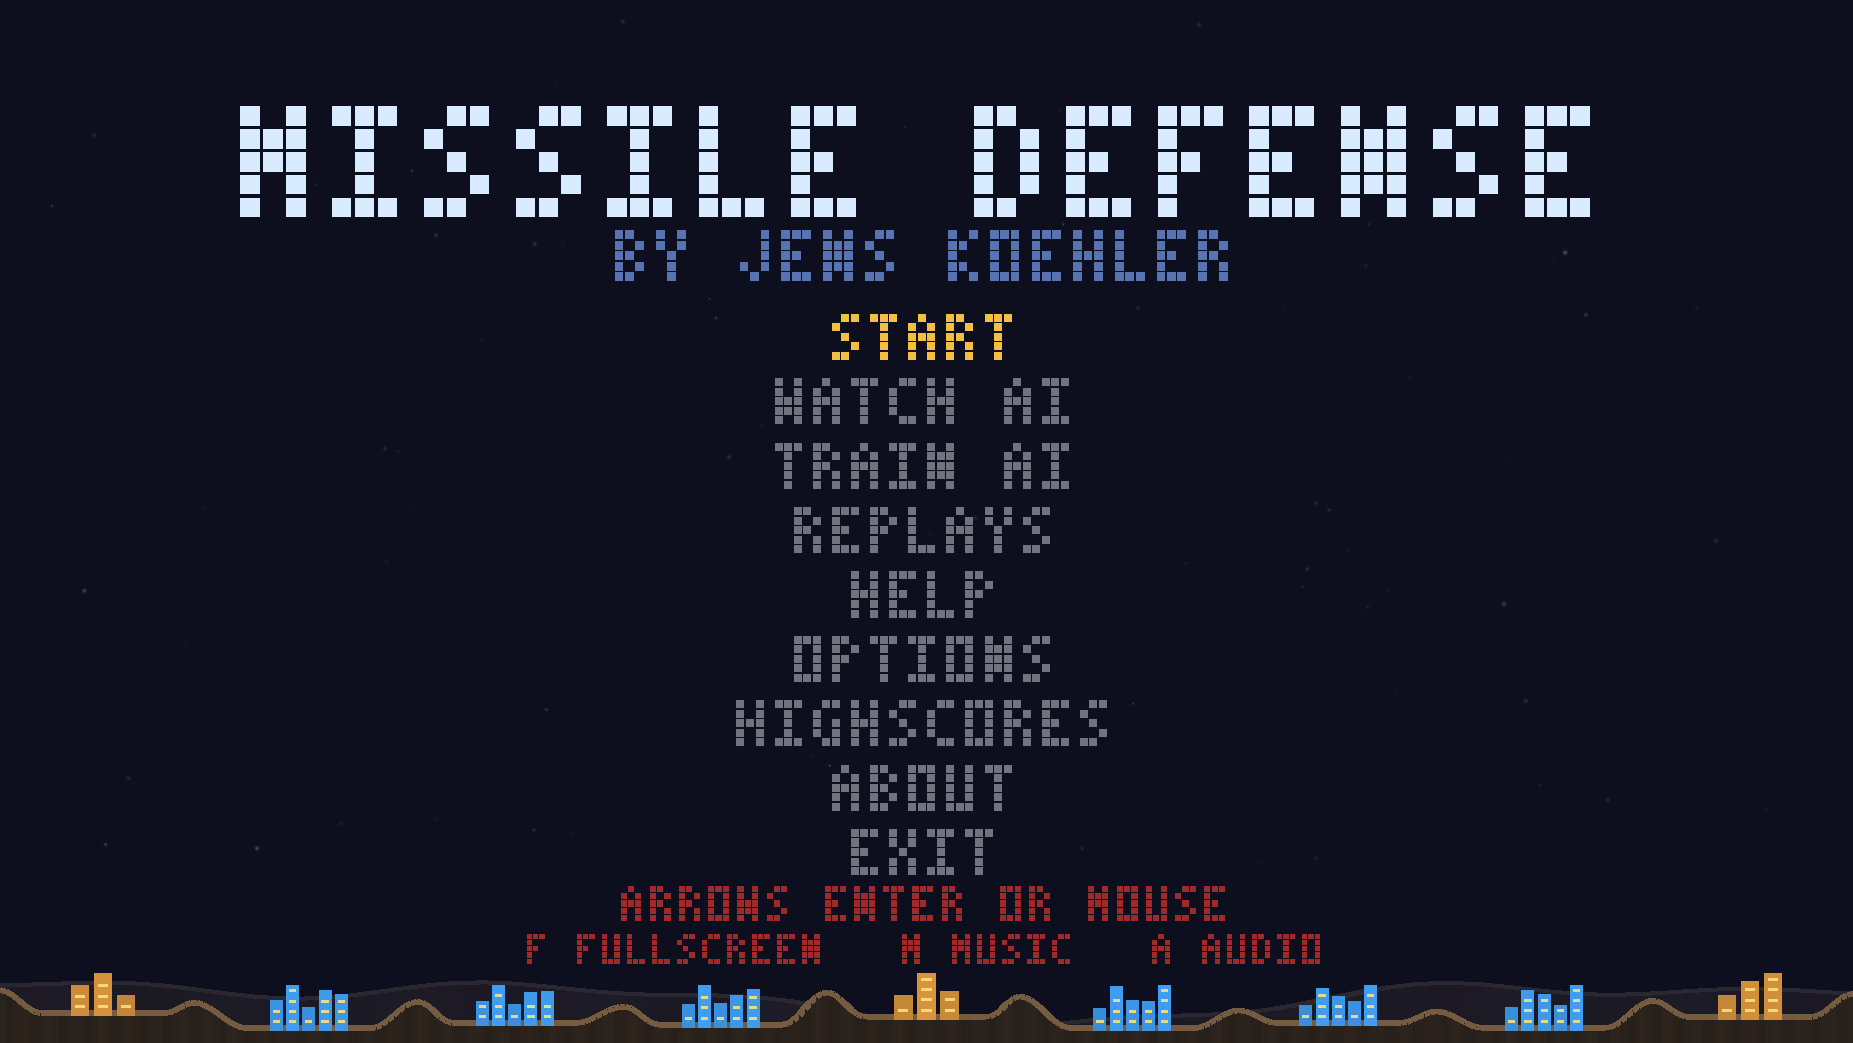
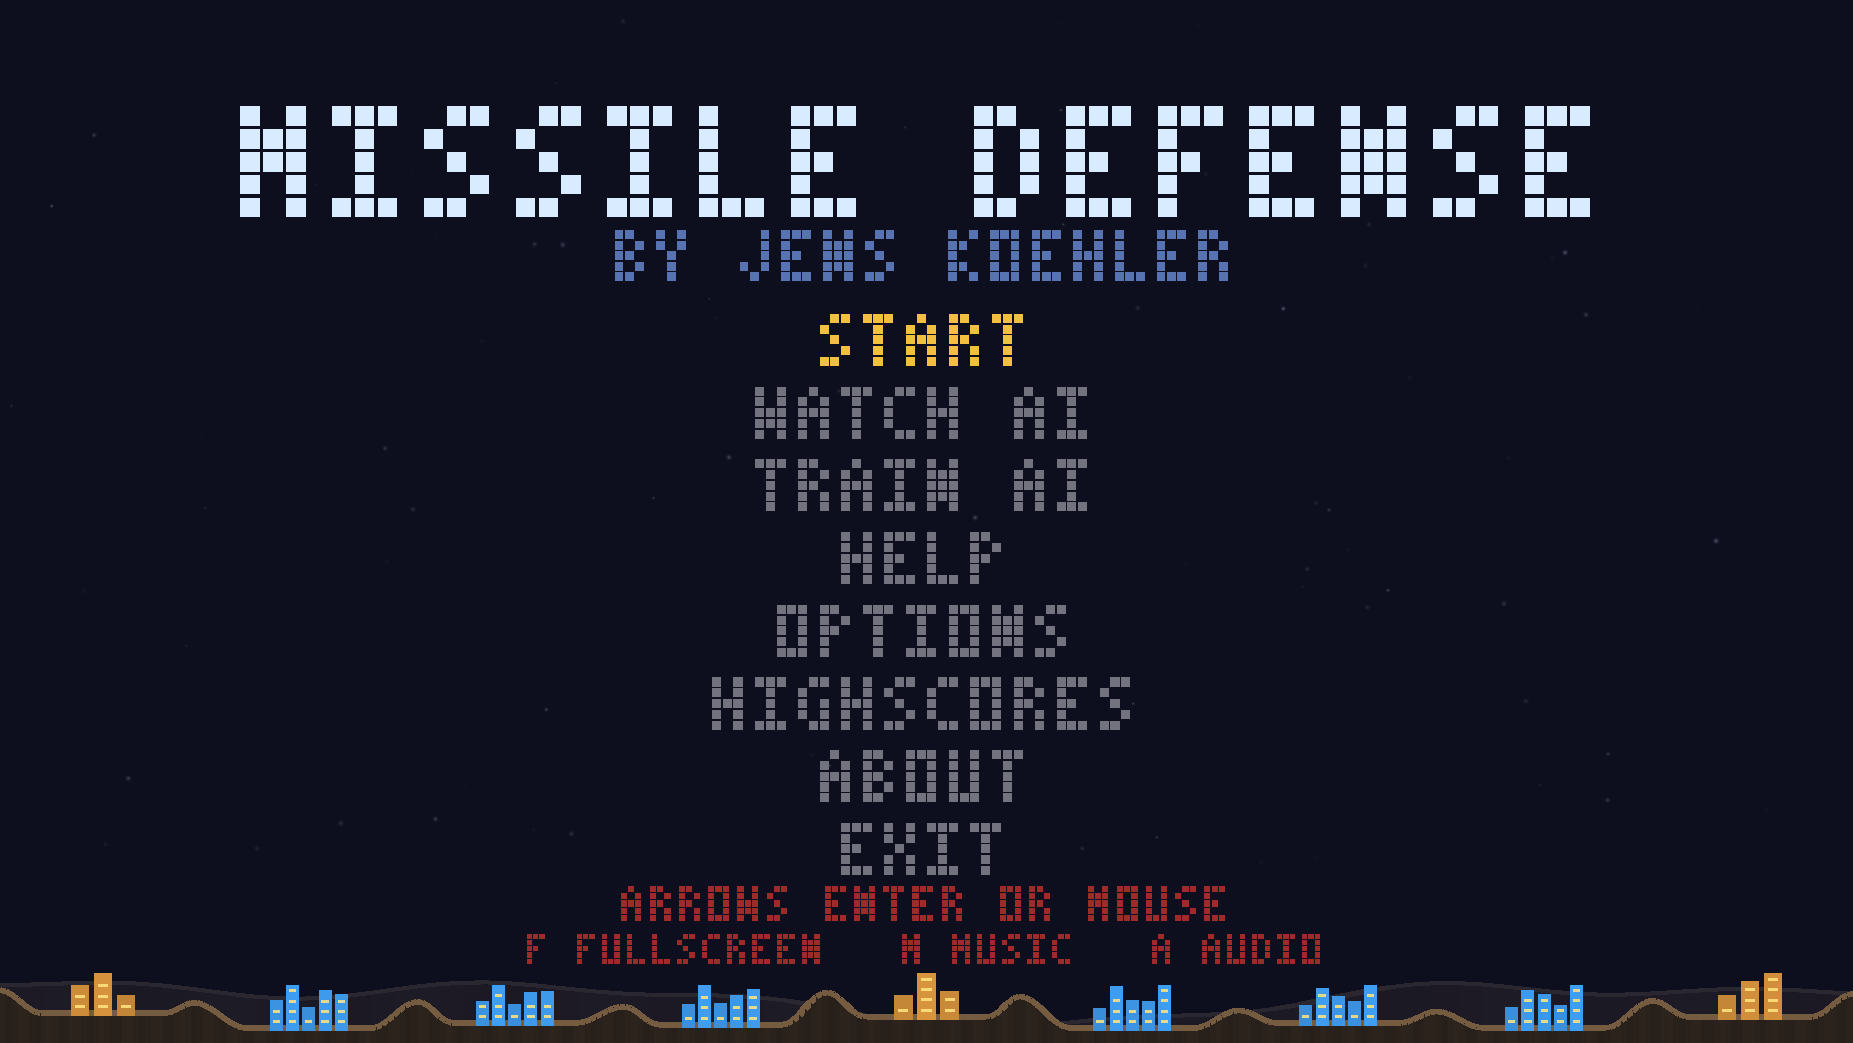
Stop documenting a menu entry the game does not have
REPLAYS is commented out in `GameWindow::action_at` - the browser, the
discovery and the playback all still work and are still tested, and WATCH AI ->
MODELS reaches the same screen, but the top-level entry is withdrawn because on
a machine that has never trained anything an empty list is the only thing it can
say. The documentation had not caught up.

The README described the withdrawal at length and then printed a screenshot of
the browser, which is a picture of a screen a reader cannot reach. TRAINING said
"the REPLAYS menu entry is commented out for now, so name the newest one
directly" - the second half is the useful sentence and the first half is an
apology for a menu. Both now just document `--replay`, which works and is what
someone actually types. Nothing about recordings, the `.mdr` format or the
playback keys changed; the feature is not the menu item.

`docs/images/menu.png` is the one that mattered, and no text edit would ever
have found it. It is the README's hero screenshot and it went on showing REPLAYS
between TRAIN AI and HELP through every commit that removed the word, because
the word was not in it - it was pixels. Recaptured from the current build at the
same 1853x1043.

That is also what the acceptance route I added yesterday got wrong: it told a
tester to expect REPLAYS in the menu, so the first step of the first-time
journey would have been failed by a correct build. The live menu is START, WATCH
[…]

Changed region(s): [[0.3691, 0.3068, 0.6152, 0.8591]]

diff --git a/python/tests/test_docs.py b/python/tests/test_docs.py
@@ -139,6 +139,30 @@ def test_every_relative_link_resolves() -> None:
     assert not broken, "documentation links to files that do not exist:\n  " + "\n  ".join(broken)
 
 
+def test_every_screenshot_is_still_referenced() -> None:
+    """The other direction: an image nothing points at is a feature nothing does.
+
+    `docs/images/replays.png` outlived the menu entry it depicted by exactly as
+    long as it took someone to notice. Deleting the last reference to a
+    screenshot is the normal way a withdrawn feature leaves the prose, and the
+    picture of it is what stays behind — so the orphan *is* the signal.
+
+    A screenshot is also the one part of the documentation no text check can
+    read. `menu.png` went on showing a REPLAYS entry through every edit that
+    removed the word, because the word was not in it.
+    """
+    images = sorted((PROJECT_ROOT / "docs" / "images").glob("*.png"))
+    assert images, "no screenshots found — this test is looking in the wrong place"
+    text = "\n".join(doc.read_text(encoding="utf-8") for doc in _maintained_docs())
+    orphans = [_rel(image) for image in images if image.name not in text]
+    assert not orphans, (
+        "screenshots no maintained document references:\n  "
+        + "\n  ".join(orphans)
+        + "\nDelete them, or reference them. An unreferenced screenshot is usually "
+        "a picture of something that no longer exists."
+    )
+
+
 def test_every_poe_task_named_in_the_docs_exists() -> None:
     """The commands are the part a reader will actually paste into a shell.
 

diff --git a/docs/TRAINING.md b/docs/TRAINING.md
@@ -142,8 +142,8 @@ turn over.
   it should fall as the actor learns time pressure, existing blast/interceptor
   coverage, and which threats form useful clusters.
 
-Every 25 updates an episode is written to `runs/`. **Go and watch one.** The
-REPLAYS menu entry is commented out for now, so name the newest one directly:
+Every 25 updates an episode is written to `runs/`. **Go and watch one.** Name the
+newest one directly:
 `md_app --replay runs/update-00100.mdr`. This is the single most useful habit in
 the whole loop: a return curve cannot tell you that your agent has learned to
 ignore MIRVs, or that it is dumping three interceptors into one warhead. Watching
@@ -167,8 +167,8 @@ Everything under `runs/` (`--out-dir` to change it):
 
 `runs/` means the directory beside you in a checkout, and the per-user data
 directory (`~/.local/share/MissileDefense/runs`) once this is installed from a
-package — `--out-dir` and `$MD_RUNS_DIR` override, and the game's REPLAYS browser
-follows the same rule so it finds what the trainer wrote. The order is in
+package — `--out-dir` and `$MD_RUNS_DIR` override, and the game follows the same
+rule so it finds what the trainer wrote. The order is in
 [PACKAGING.md](PACKAGING.md#where-a-runs-files-go).
 
 Those last two are deliberately separate files. `metrics.csv` is the training

diff --git a/docs/ROADMAP.md b/docs/ROADMAP.md
@@ -88,8 +88,12 @@ see it learn, and a scalar reward curve does not show you *why* a run went badly
   to, so seeking forward plays forward; seeking back rewinds to the nearest snapshot
   (every 600 ticks — `Sim` state is a `memcpy`) and plays from there, which bounds a
   backwards seek instead of replaying from tick zero.
-- ✅ **Browser** — a **REPLAYS** menu entry lists what is in `runs/`, newest first,
-  rescanned on each visit so a training run in progress shows its latest episodes.
+- ✅ **Browser** — a screen listing what is in `runs/`, newest first, rescanned on
+  each visit so a training run in progress shows its latest episodes. Built,
+  tested, and reached through **WATCH AI → MODELS**; its own top-level menu entry
+  is withdrawn for now (`GameWindow::action_at`), because on a machine that has
+  never trained anything an empty list is the only thing it can say, and that is
+  the common case. Nothing behind it was removed.
 - ⬜ **Recording human play** — the recorder logs discrete action indices, which is what
   a policy emits; a human's mouse aim is a continuous `Action` and does not fit that
   format. Deferred until the player model is calibrated (see the note in `config.hpp`).

diff --git a/README.md b/README.md
@@ -225,7 +225,7 @@ nobody discovered there was a trainer at all.
 | | |
 |:---:|:---:|
 | ![The title menu, drawn in the game's own pixel font](docs/images/menu.png) | ![Interceptor blasts expanding over the skyline](docs/images/intercept.png) |
-| **Full arcade shell** — menu, replays, options, help, highscores | **Interceptors** — travel time, then an expanding blast |
+| **Full arcade shell** — menu, options, help, highscores | **Interceptors** — travel time, then an expanding blast |
 
 ## Requirements
 
@@ -673,15 +673,7 @@ directly:
 
 ### Watch replays
 
-The browser that lists the recordings in `runs/` — both the ones sitting
-directly in it and the ones inside each managed run, newest first — is built and
-tested, but its **REPLAYS** menu entry is commented out for now
-(`GameWindow::action_at`): on a machine that has never trained anything, an
-empty list is the only thing it can say, and that is the common case.
-
-![The REPLAYS browser listing recorded episodes from a training run, newest first](docs/images/replays.png)
-
-So name a recording directly:
+Name a recording and the game plays it back:
 
 ```bash
 ./build/release/app/md_app --replay runs/update-01000.mdr

diff --git a/docs/ACCEPTANCE.md b/docs/ACCEPTANCE.md
@@ -58,7 +58,7 @@ rather than supplying the answer yourself.
 
 | Step | Do this | Expect to see | Row |
 |---|---|---|---|
-| 1 | Install both packages. Launch **Missile Defense** from the desktop menu — not from a shell | The menu: START, WATCH AI, REPLAYS, TRAIN AI, OPTIONS, HIGHSCORES, ABOUT | 2.1 |
+| 1 | Install both packages. Launch **Missile Defense** from the desktop menu — not from a shell | The menu: START, WATCH AI, TRAIN AI, HELP, OPTIONS, HIGHSCORES, ABOUT, EXIT | 2.1 |
 | 2 | **START**. Play one game to the end | Cities fall, the wave counter climbs, game over — and initials entry if you qualified | 2.2 |
 | 3 | **OPTIONS → AI SKILL LOW**, back, **WATCH AI → SCRIPTED**. Then repeat at **HIGH** | Two visibly different agents. LOW double-fires at warheads already doomed; HIGH does not. The difference must read as *behaviour*, not as a number | 2.3 |
 | 4 | **WATCH AI → MODELS**, choose the bundled model | It plays, and it plays unlike either scripted rung — deeper, looser, more shots | 2.4 |
